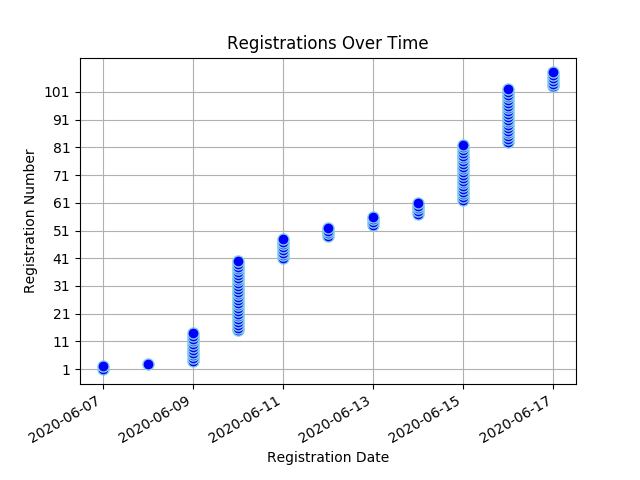
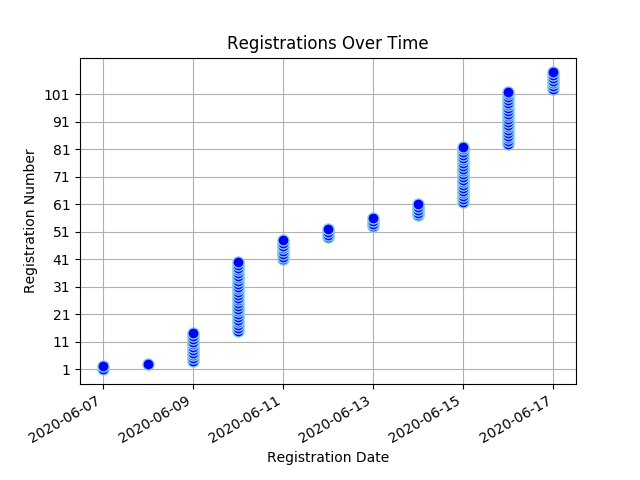
Registree stats backup on Wed Jun 17 14:41:42 SAST 2020

Changed region(s): [[0.0625, 0.1562, 0.9062, 0.7188], [0.125, 0.6875, 0.2812, 0.7188]]

diff --git a/content/virtual_conf_stats/_index.md b/content/virtual_conf_stats/_index.md
@@ -16,7 +16,7 @@ draft: false
 </head>
 <body>
 <h1 style="color: #000000;">Virtual Convention Registration Stats</h1>
-<ul><li><strong>Number of Registrees</strong>: 108</li>
+<ul><li><strong>Number of Registrees</strong>: 109</li>
 </ul><a href="/docs/virtual_convention_stats.csv">Download registration details here</a>
 <h2>Registrees</h2>
 <table id="registreeTable" class="tablesorter" border="1" padding=1>
@@ -72,6 +72,7 @@ Club
 <tr><td>King, Ian</td><td>Alberton</td></tr>
 <tr><td>King, Sandy</td><td>Alberton</td></tr>
 <tr><td>Krüger, Zwaai</td><td>Sedgefield</td></tr>
+<tr><td>kunfermann, ernst</td><td>durban north</td></tr>
 <tr><td>Kuni, Dylin</td><td>Table View</td></tr>
 <tr><td>Lakay, Bevil</td><td>Mitchell's Plain</td></tr>
 <tr><td>Lang, James</td><td>The Lions Club of Gordon's Bay</td></tr>
